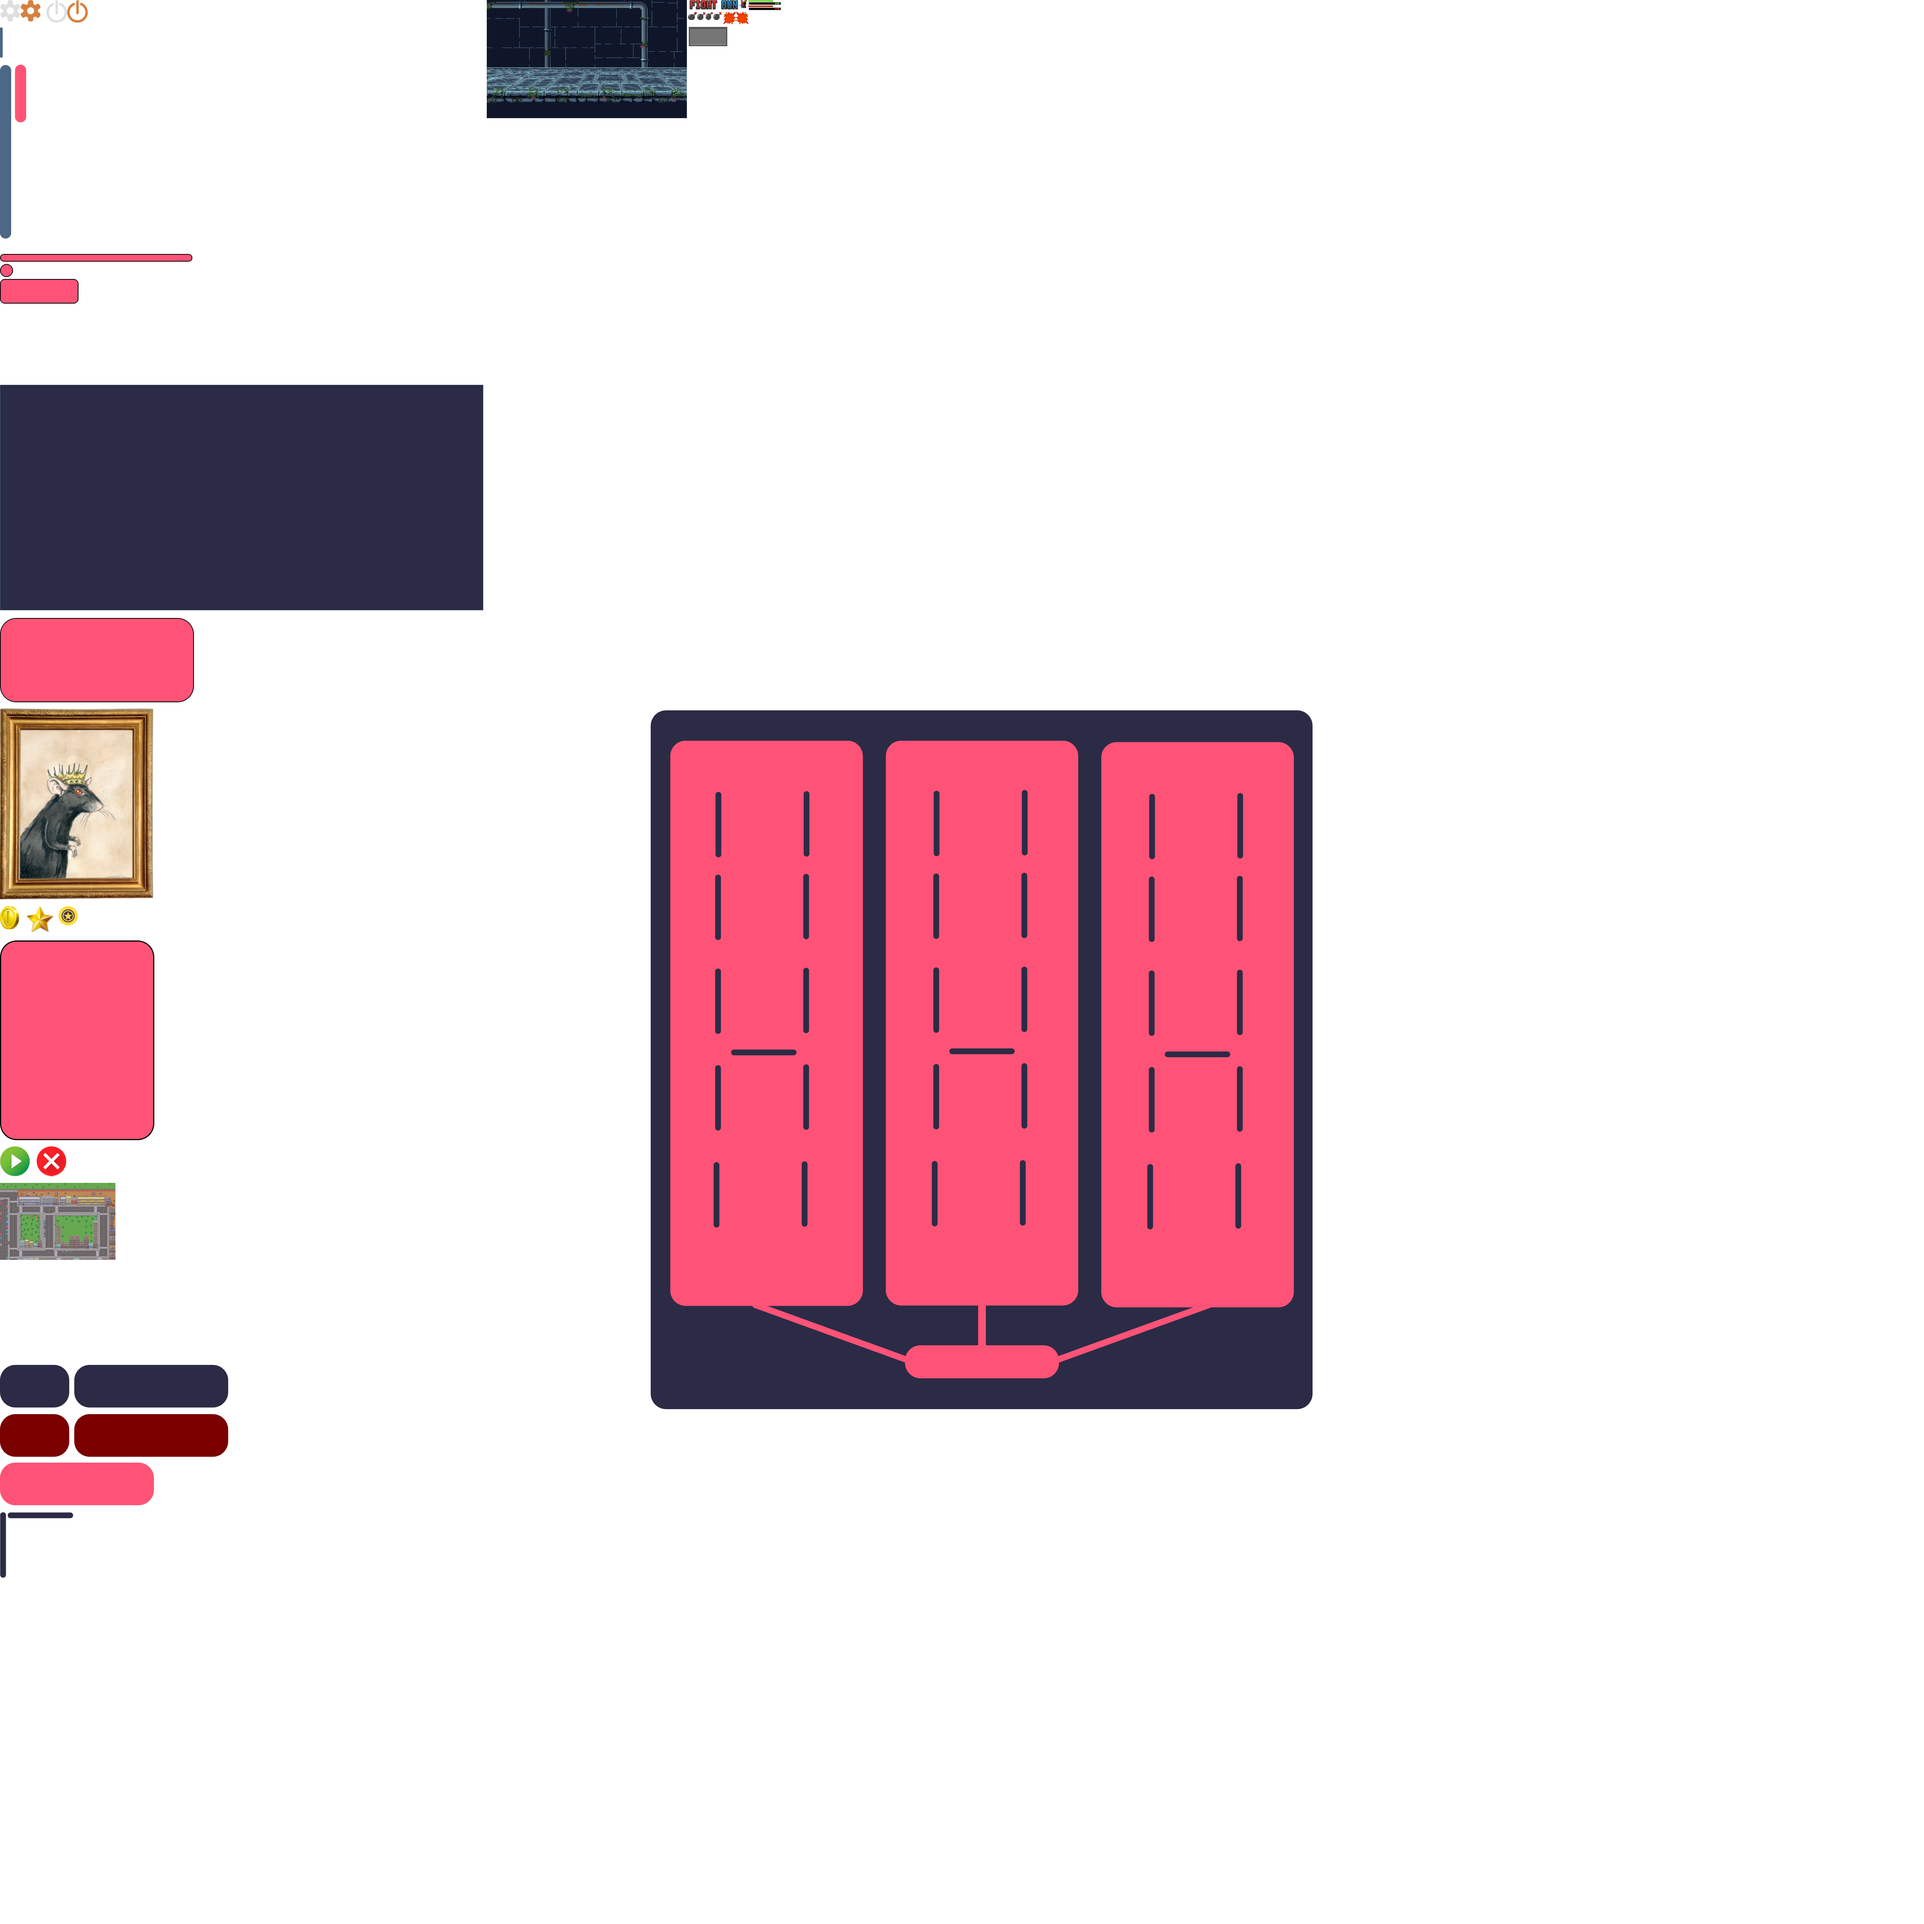
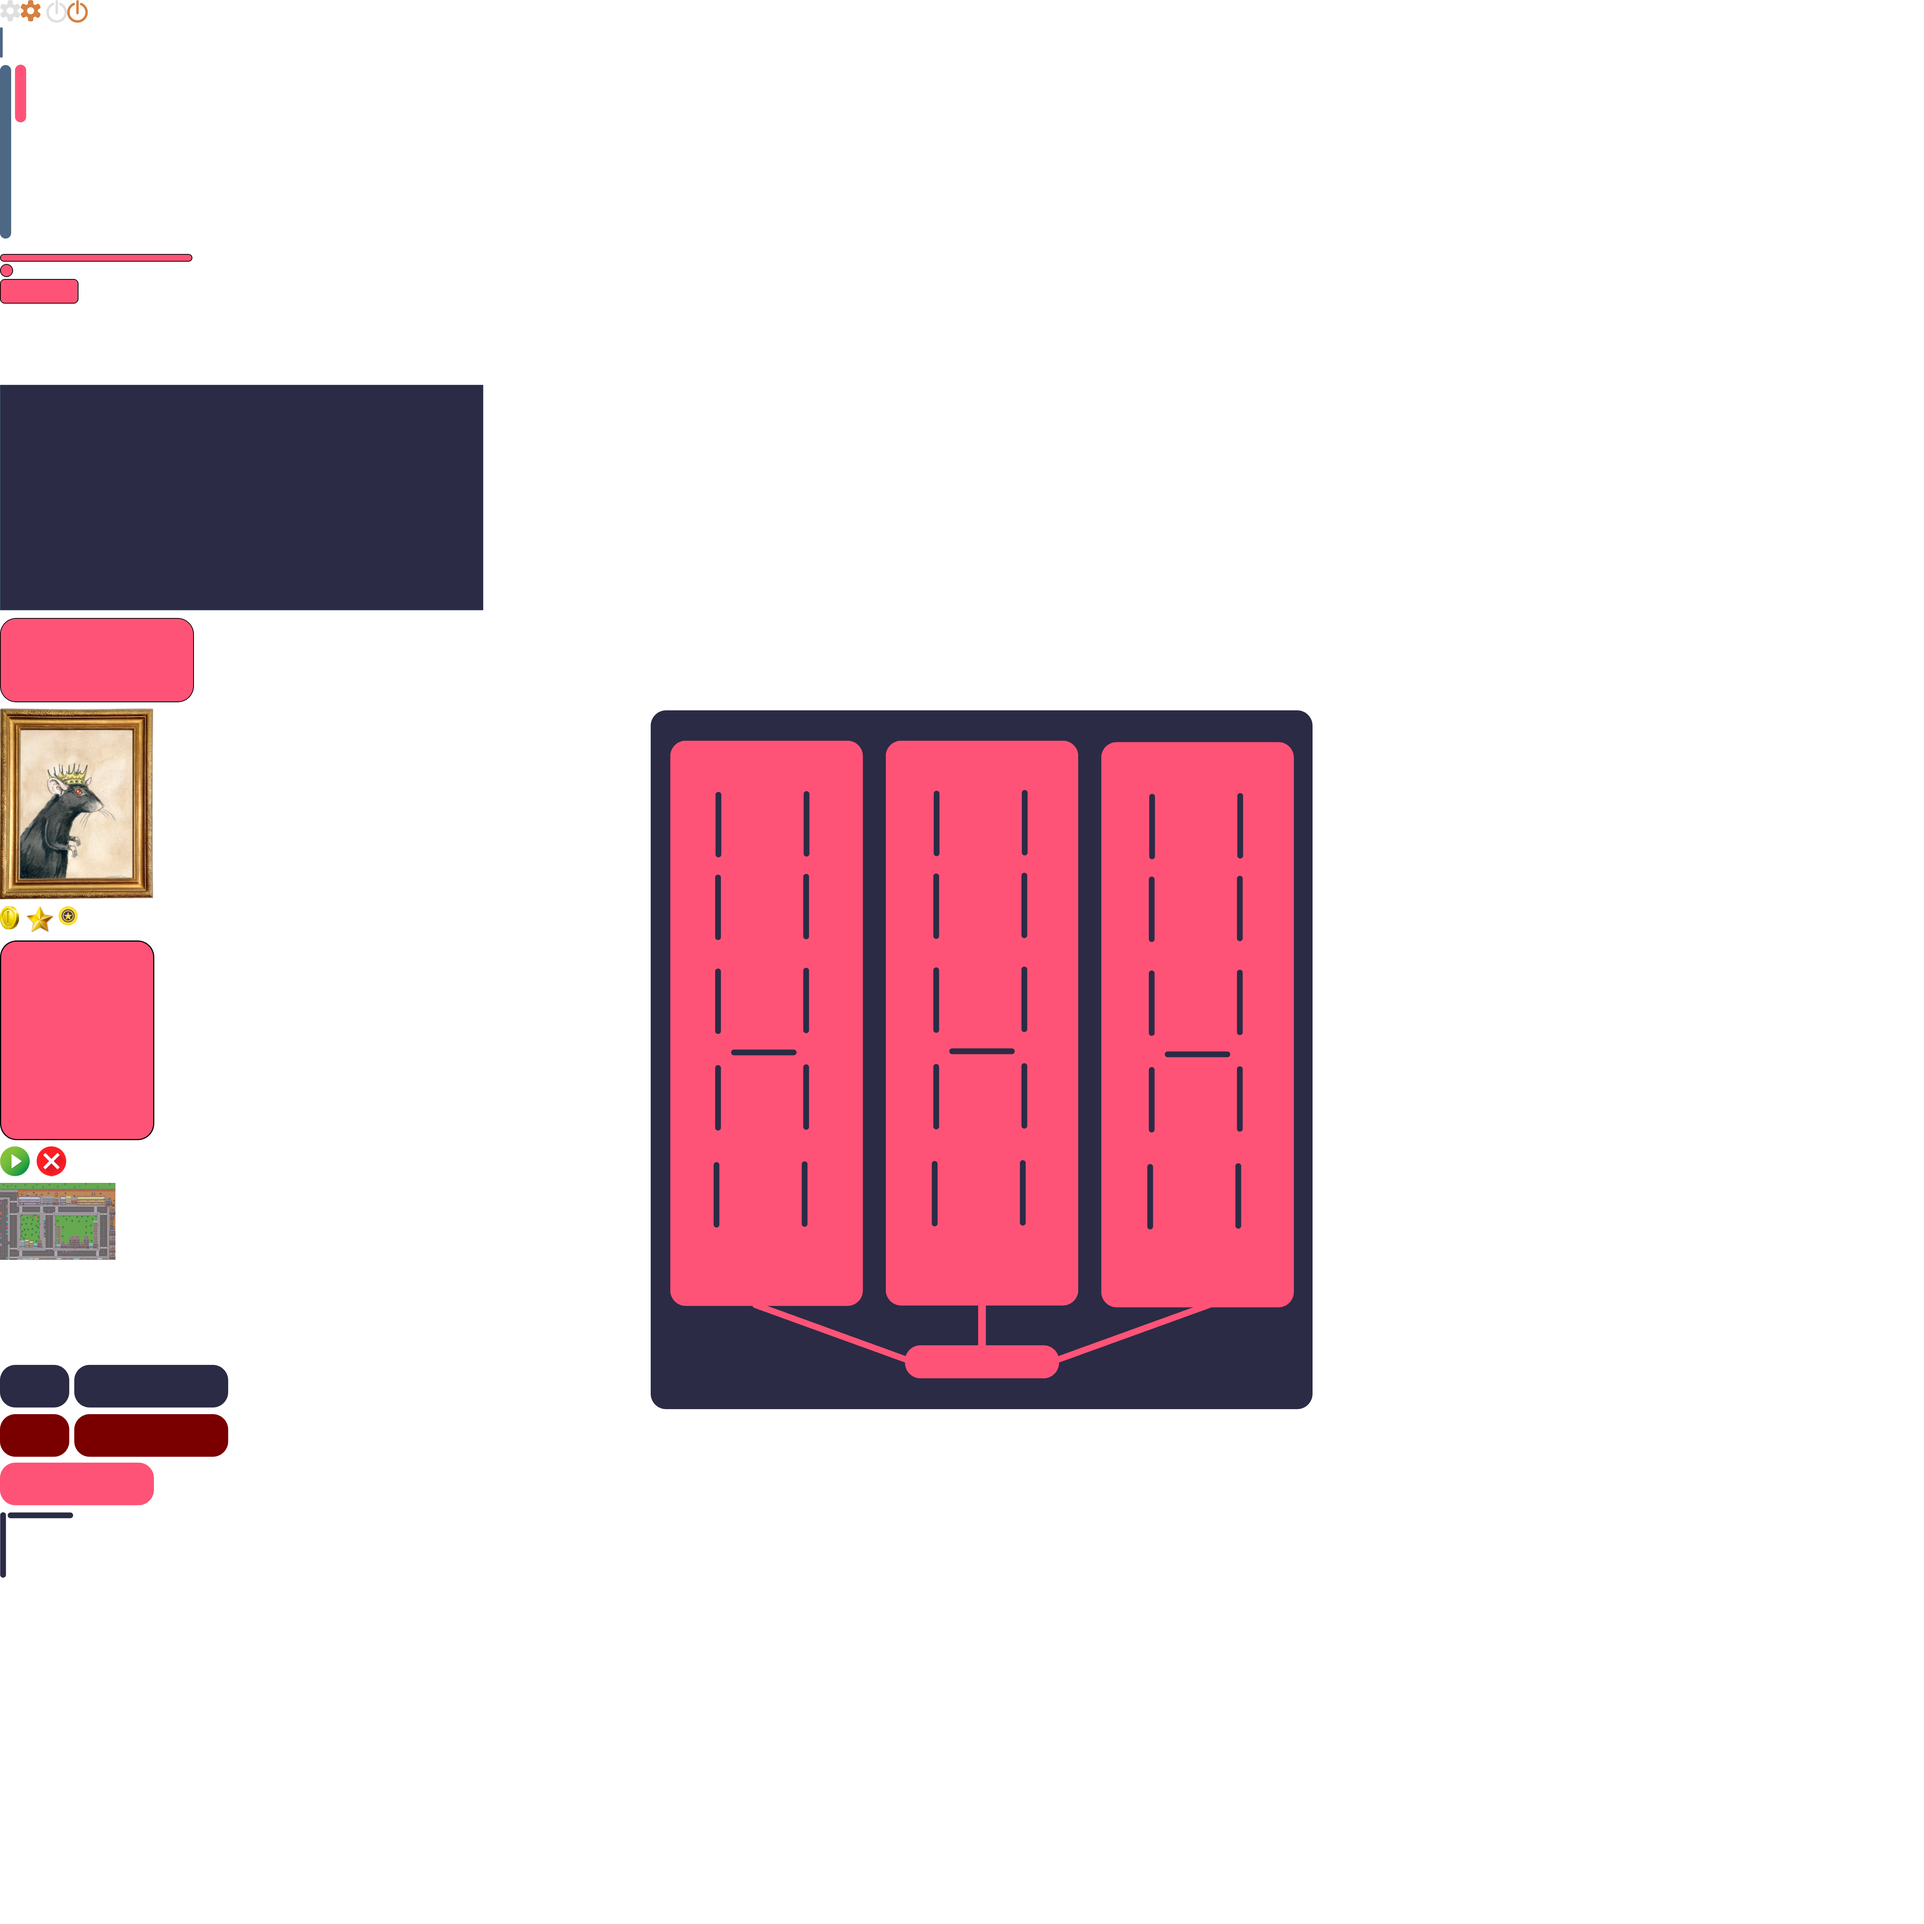
Revert "Dev"

Changed region(s): [[0.2496, 0.0, 0.4056, 0.0624]]

diff --git a/include/pnj.h b/include/pnj.h
@@ -11,20 +11,15 @@
     #include "rpg.h"
 
     #define PNJ_BLACK_PATH "assets/images/characters/pnj/black.png"
-    #define PNJ_BLUE_GIRL_PATH "assets/images/characters/pnj/blue_girl.png"
-    #define PNJ_GUARD_PATH "assets/images/characters/pnj/guard_pnj.png"
-    #define PNJ_HOTESS_PATH "assets/images/characters/pnj/hotesse.png"
+    #define PNJ_BLUE_GIRL "assets/images/characters/pnj/blue_girl.png"
+    #define PNJ_GUARD "assets/images/characters/pnj/guard_pnj.png"
 
     #define PNJ_NBR 540
-    #define LAST_PNJ 7
     #define PNJ_BLACK 0
     #define PNJ_GIRL_TWO 1
     #define PNJ_BLACK_THREE 2
     #define PNJ_GUARD_LEFT 3
     #define PNJ_GUARD_RIGHT 4
-    #define PNJ_MUSEUM_HOTESS 5
-    #define PNJ_M_GUARD_LEFT 6
-    #define PNJ_M_GUARD_RIGHT 7
 
     typedef struct pnj {
         sfClock *timer_move;
@@ -40,7 +35,6 @@
         int change_t;
         bool display_the_text;
         bool text;
-        sfText *touch_talk;
         int speed;
         int displaying_text;
     } pnj_t;

diff --git a/src/init/assets/pnj/init_pnj_citizens.c b/src/init/assets/pnj/init_pnj_citizens.c
@@ -47,8 +47,6 @@ void init_pnj_citizens(sfTexture *texture,
     pos.x -= 210;
     pnj->message_box = create_sprite(game->textures->message_box,
         (sfIntRect){0, 560, 320, 80}, pos, (sfVector2f){1.2, 1});
-    pnj->touch_talk = create_text(FONT_TEXT_PNJ, sfWhite, 0, "");
-    sfText_setPosition(pnj->touch_talk, (sfVector2f){pos.x - 13, pos.y - 45});
     set_sprite_origin(pnj->message_box, (sfIntRect){0, 560, 320, 80});
     init_text_pnj(pnj, pos, "");
     init_settings_base_citizens(pnj, 5);
@@ -59,7 +57,7 @@ void citizens_png(game_t *game)
     assets_t *assets = game->assets;
     sfVector2f default_pnj_position;
 
-    for (int i = LAST_PNJ + 1; i < PNJ_NBR; i++) {
+    for (int i = PNJ_GUARD_RIGHT + 1; i < PNJ_NBR; i++) {
         default_pnj_position.x = rand() % 2500;
         default_pnj_position.y = 1700 + rand() % (1740 + 1 - 1700);
         assets->pnj[i]->speed = rand() % (3 + 1 - 1);

diff --git a/src/display/pnjs/display.c b/src/display/pnjs/display.c
@@ -50,7 +50,7 @@ void check_second_move_pnj(game_t *game, int i)
 
 void move_pnj(game_t *game, int nbr_animated_pnj)
 {
-    for (int i = LAST_PNJ + 1; i < nbr_animated_pnj; i++)
+    for (int i = PNJ_GUARD_RIGHT + 1; i < nbr_animated_pnj; i++)
         check_second_move_pnj(game, i);
 }
 
@@ -75,7 +75,6 @@ void change_text_and_box_message_pos(game_t *game, pnj_t *pnj)
 void display_pnj(game_t *game, pnj_t *pnj)
 {
     int stop = 0;
-
     if (!pnj || !game || !pnj->sprite || !game->window ||
         !game->assets->rat->idle_front)
         return;
@@ -90,6 +89,5 @@ void display_pnj(game_t *game, pnj_t *pnj)
         sfRenderWindow_drawText(game->window,
             pnj->text_to_display[pnj->text_index_display], NULL);
     }
-    check_intersect_circle(game, pnj);
     return;
 }

diff --git a/src/init/textures/characters.c b/src/init/textures/characters.c
@@ -12,10 +12,8 @@ void init_textures_characters(game_t *game)
     textures_t *textures = game->textures;
 
     textures->black_pnj = sfTexture_createFromFile(PNJ_BLACK_PATH, NULL);
-    textures->blue_girl_pnj =
-        sfTexture_createFromFile(PNJ_BLUE_GIRL_PATH, NULL);
-    textures->guard_pnj = sfTexture_createFromFile(PNJ_GUARD_PATH, NULL);
-    textures->hotess_pnj = sfTexture_createFromFile(PNJ_HOTESS_PATH, NULL);
+    textures->blue_girl_pnj = sfTexture_createFromFile(PNJ_BLUE_GIRL, NULL);
+    textures->guard_pnj = sfTexture_createFromFile(PNJ_GUARD, NULL);
     textures->rat_blue = sfTexture_createFromFile(BLUE_RAT, NULL);
     textures->rat_green = sfTexture_createFromFile(GREEN_RAT, NULL);
     textures->rat_purple = sfTexture_createFromFile(PURPLE_RAT, NULL);

diff --git a/src/init/assets/pnj/init_pnj.c b/src/init/assets/pnj/init_pnj.c
@@ -36,8 +36,6 @@ void init_pnj(pnj_t *pnj, sfTexture *texture, sfVector2f pos, sfIntRect rect)
     pnj->sprite = create_sprite(texture,
         rect, pos, (sfVector2f){0.42, 0.42});
     set_sprite_origin(pnj->sprite, (sfIntRect){0, 30, 45, 65});
-    pnj->touch_talk = create_text(FONT_TEXT_PNJ, sfWhite, 25, "[E]");
-    sfText_setPosition(pnj->touch_talk, (sfVector2f){pos.x - 13, pos.y - 45});
     pos.y -= 200;
     pos.x -= 210;
     init_settings_base(pnj);
@@ -60,8 +58,5 @@ void init_struct_pnjs(game_t *game)
     init_three(game);
     init_pnj_guard_left(game);
     init_pnj_guard_right(game);
-    init_pnj_museum_hotess(game);
-    init_pnj_g_museum_left(game);
-    init_pnj_g_museum_right(game);
     citizens_png(game);
 }

diff --git a/src/stage/museum.c b/src/stage/museum.c
@@ -15,10 +15,6 @@ void museum_stage(game_t *game)
     sfMusic_stop(game->audio->musics->music_menu);
     display_museum(game);
     display_rat(game);
-    sfRenderWindow_drawSprite(game->window,
-        game->assets->museum->bg_top, NULL);
+    sfRenderWindow_drawSprite(game->window, game->assets->museum->bg_top, NULL);
     check_rat_key_pressed(game);
-    display_pnj(game, game->assets->pnj[PNJ_MUSEUM_HOTESS]);
-    display_pnj(game, game->assets->pnj[PNJ_M_GUARD_LEFT]);
-    display_pnj(game, game->assets->pnj[PNJ_M_GUARD_RIGHT]);
 }

diff --git a/src/destroy/textures/destroy.c b/src/destroy/textures/destroy.c
@@ -25,12 +25,11 @@ void destroy_textures_2(textures_t *textures)
     sfTexture_destroy(textures->message_box);
     sfTexture_destroy(textures->blue_girl_pnj);
     sfTexture_destroy(textures->guard_pnj);
-    sfTexture_destroy(textures->hotess_pnj);
-    sfTexture_destroy(textures->black_pnj);
 }
 
 void destroy_textures(textures_t *textures)
 {
+    sfTexture_destroy(textures->black_pnj);
     sfTexture_destroy(textures->rat_blue);
     sfTexture_destroy(textures->rat_green);
     sfTexture_destroy(textures->rat_purple);

diff --git a/src/destroy/assets/pnjs/destroy.c b/src/destroy/assets/pnjs/destroy.c
@@ -13,8 +13,6 @@ void destroy_pnjs(pnj_t **pnj)
         destroy_sprite(pnj[i]->sprite);
         for (int x = 0; pnj[i]->text_to_display[x] != NULL; x++)
             destroy_text(pnj[i]->text_to_display[x]);
-        if (pnj[i]->touch_talk)
-            destroy_text(pnj[i]->touch_talk);
         sfClock_destroy(pnj[i]->timer_display_text);
         sfClock_destroy(pnj[i]->timer_move);
         sfClock_destroy(pnj[i]->walk);

diff --git a/include/init.h b/include/init.h
@@ -127,9 +127,6 @@
             sfVector2f position);
         void init_one(game_t *game);
         void init_pnj_guard_left(game_t *game);
-        void init_pnj_museum_hotess(game_t *game);
-        void init_pnj_g_museum_left(game_t *game);
-        void init_pnj_g_museum_right(game_t *game);
         void init_pnj_guard_right(game_t *game);
         void init_two(game_t *game);
         void init_three(game_t *game);

diff --git a/src/errors/check_images.c b/src/errors/check_images.c
@@ -15,10 +15,8 @@ int check_characters(void)
     error += is_file(RED_RAT);
     error += is_file(GREEN_RAT);
     error += is_file(PURPLE_RAT);
-    error += is_file(PNJ_BLUE_GIRL_PATH);
-    error += is_file(PNJ_GUARD_PATH);
-    error += is_file(PNJ_BLACK_PATH);
-    error += is_file(PNJ_HOTESS_PATH);
+    error += is_file(PNJ_BLUE_GIRL);
+    error += is_file(PNJ_GUARD);
     return error;
 }
 

diff --git a/src/stage/city.c b/src/stage/city.c
@@ -35,7 +35,7 @@ void wind(game_t *game)
 
 void pnjs_display_city(game_t *game, int nbr_animated_pnj)
 {
-    int last_pnj_not_citizens = LAST_PNJ + 1;
+    int last_pnj_not_citizens = PNJ_GUARD_RIGHT + 1;
 
     nbr_animated_pnj += last_pnj_not_citizens;
     move_pnj(game, nbr_animated_pnj);

diff --git a/src/init/assets/pnj/pnj_guard_museum_left.c b/src/init/assets/pnj/pnj_guard_museum_left.c
@@ -41,5 +41,5 @@ void init_pnj_guard_left(game_t *game)
     sfSprite_setScale(pnj->sprite, (sfVector2f){0.6, 0.6});
     create_box_message(game, pnj, position);
     init_text_pnj_gleft(pnj, position);
-    pnj->time_between_text = 2;
+    pnj->time_between_text = 1;
 }
